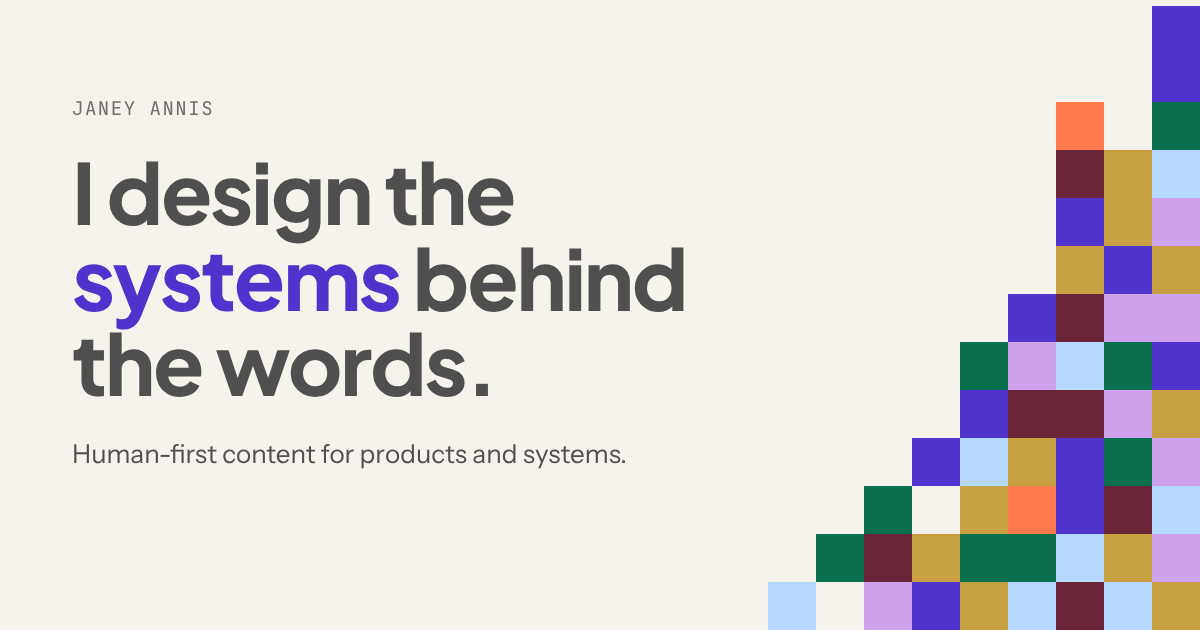
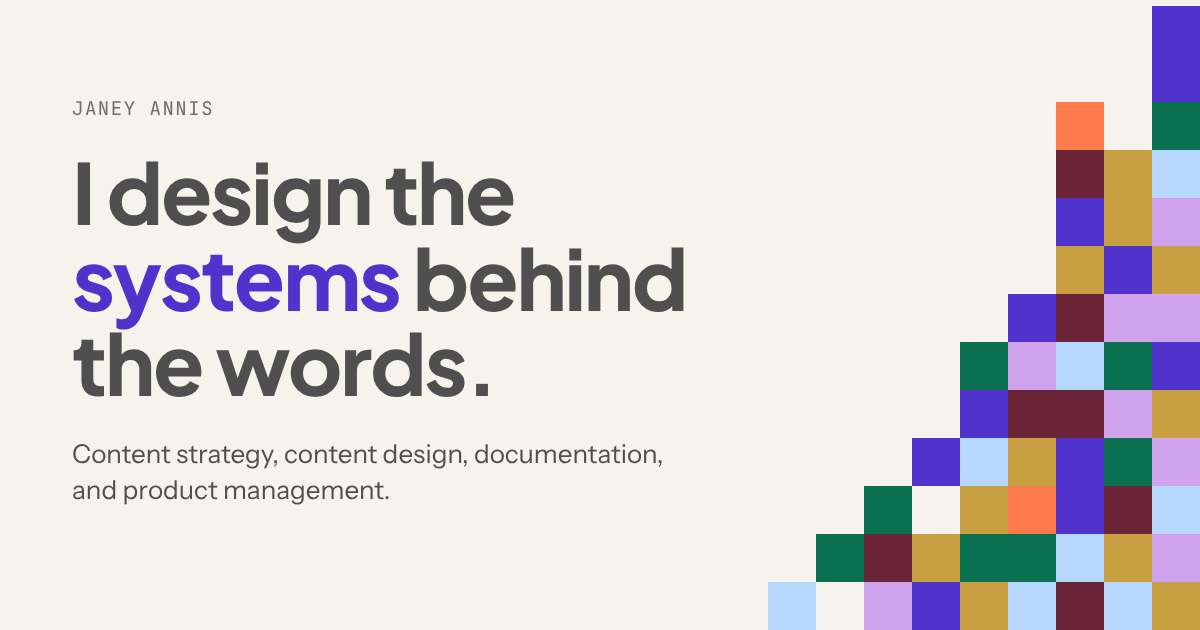
Link preview: disciplines instead of the tagline on the case-study image
Claude-Session: https://claude.ai/code/session_01CES4MxNcGYPvVgqTCFYaUm

Changed region(s): [[0.0617, 0.6937, 0.555, 0.8143]]

diff --git a/scripts/og/og-case-study.html b/scripts/og/og-case-study.html
@@ -24,5 +24,5 @@ const stair=(c,n,r,s)=>Math.max(0,Math.min(r,Math.floor((c/n)*5+1)*Math.ceil(r/5
 </script><div style="position:absolute;left:72px;top:96px;width:640px">
 <p class=mono style="color:var(--muted)">Janey Annis</p>
 <h1 style="font-size:84px;margin-top:28px">I design the <span style="color:var(--accent)">systems</span> behind the words.</h1>
-<p style="font-size:26px;margin-top:30px;line-height:1.4">Human-first content for products and systems.</p></div>
+<p style="font-size:26px;margin-top:30px;line-height:1.4">Content strategy, content design, documentation, and product management.</p></div>
 <i id=a></i><script>art('a',9,13,48,grow,P,4,768,6)</script>
